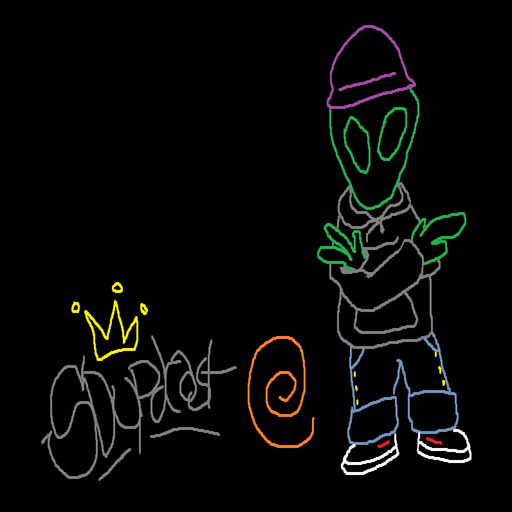
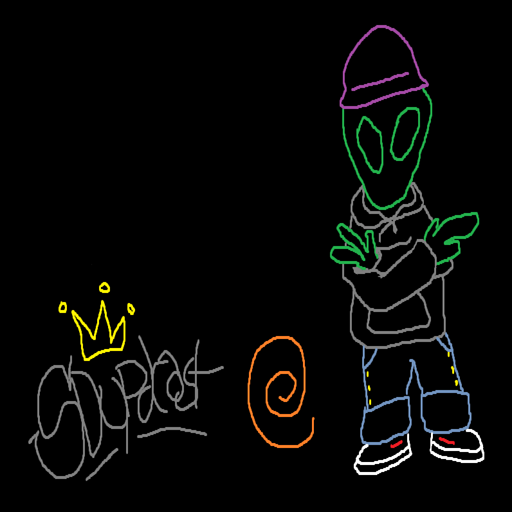
updater bg

Changed region(s): [[0.625, 0.0312, 0.9688, 0.9375], [0.0625, 0.5312, 0.4688, 0.9375]]

diff --git a/src/core/App.cpp b/src/core/App.cpp
@@ -6,18 +6,16 @@
 
 extern "C" {
 #include <fatfs.h>
-#include <dc/sd.h>
-#include <png/png.h>
-#include <zlib/zlib.h>
 }
-
+#include <png/png.h>
+#include <dc/sd.h>
 #include <kos/fs.h>
+
 #include <cstdint>
 #include <cstdlib>
 
 // external font + helper from example
 extern "C" char wfont[];
-extern "C" int zlib_getlength(char*);
 
 App* App::s_instance = nullptr;
 
@@ -63,7 +61,8 @@ void App::Run()
 
     InitFont();
     InitBackground();
-    InitText();
+
+    SetMessagef("Connecting to:\n%s", GetBaseUrl(m_updateUrl));
 
     while (!m_done)
     {
@@ -110,9 +109,6 @@ void App::Cleanup()
 
     if (s_instance)
     {
-       if (s_instance->m_textData)
-          free(s_instance->m_textData);
-
        if (s_instance->m_fontTex)
           pvr_mem_free(s_instance->m_fontTex);
 
@@ -120,11 +116,11 @@ void App::Cleanup()
           pvr_mem_free(s_instance->m_backTex);
     }
 
-    SDUpdcast_SetSkip();
-
     Logger::LogInfo("App shutting down (callback)");
 
     Logger::Shutdown();
+
+    SDUpdcast_SetSkip();
 
     fs_fat_unmount_sd();
 }
@@ -169,18 +165,52 @@ void App::InitFont()
     pvr_txr_load_ex(temp_tex, m_fontTex, 256, 256, PVR_TXRLOAD_16BPP);
 }
 
-void App::InitText()
+const char* App::GetBaseUrl(const char* url)
 {
-    int length = zlib_getlength((char*)"/rd/text.gz");
+    if (!url) return "";
 
-    m_textData = (char*)malloc(length + 1);
+    const char* start = strstr(url, "://");
+    if (start)
+        start += 3;
+    else
+        start = url;
 
-    gzFile f = gzopen("/rd/text.gz", "r");
-    gzread(f, m_textData, length);
-    m_textData[length] = 0;
-    gzclose(f);
+    const char* slash = strchr(start, '/');
+    if (!slash)
+        return url;
 
-    Logger::LogInfo("Text length: %d", length);
+    static char buffer[256];
+
+    size_t len = slash - url;
+    if (len >= sizeof(buffer))
+        len = sizeof(buffer) - 1;
+
+    memcpy(buffer, url, len);
+    buffer[len] = '\0';
+
+    return buffer;
+}
+
+void App::SetMessage(const char* msg)
+{
+    if (!msg)
+    {
+        m_currentMessage[0] = '\0';
+        return;
+    }
+
+    strncpy(m_currentMessage, msg, MAX_MESSAGE_LEN - 1);
+    m_currentMessage[MAX_MESSAGE_LEN - 1] = '\0';
+}
+
+void App::SetMessagef(const char* fmt, ...)
+{
+    va_list args;
+    va_start(args, fmt);
+
+    vsnprintf(m_currentMessage, MAX_MESSAGE_LEN, fmt, args);
+
+    va_end(args);
 }
 
 // --------------------------------------------------
@@ -271,12 +301,14 @@ void App::DrawString(float x, float y, float z,
     pvr_poly_compile(&hdr, &cxt);
     pvr_prim(&hdr, sizeof(hdr));
 
+    float lineHeight = 16 * ys + 4; // 4px padding
+
     while (*str)
     {
         if (*str == '\n')
         {
             x = orig_x;
-            y += 40;
+            y += lineHeight;
             str++;
             continue;
         }
@@ -288,6 +320,8 @@ void App::DrawString(float x, float y, float z,
 
 void App::DrawFrame()
 {
+    Logger::KeepStdioAlive();
+
     pvr_wait_ready();
     pvr_scene_begin();
 
@@ -297,15 +331,13 @@ void App::DrawFrame()
 
     pvr_list_begin(PVR_LIST_TR_POLY);
 
-    DrawString(0,
-               m_scrollY % 1720 + 440,
+    DrawString(40,   // <-- top-left X
+               120,   // <-- top-left Y
                3,
                1,1,1,1,
-               m_textData,
+               m_currentMessage,
                2,2);
 
     pvr_list_finish();
     pvr_scene_finish();
-
-    m_scrollY--;
 }

diff --git a/src/core/App.h b/src/core/App.h
@@ -1,6 +1,8 @@
 #ifndef APP_H
 #define APP_H
 
+#define MAX_MESSAGE_LEN 512
+
 #include <kos.h>
 
 class App
@@ -21,14 +23,17 @@ private:
     // --- Rendering state ---
     pvr_ptr_t m_fontTex{};
     pvr_ptr_t m_backTex{};
-    char* m_textData{};
-    int m_scrollY{0};
-    bool m_done{false};
+
+    char m_currentMessage[MAX_MESSAGE_LEN]{};
+    bool m_done{};
 
     // --- Init helpers ---
     void InitFont();
     void InitBackground();
-    void InitText();
+
+    const char* GetBaseUrl(const char* url);
+    void SetMessage(const char* msg);
+    void SetMessagef(const char* fmt, ...);
 
     // --- Rendering ---
     void DrawFrame();